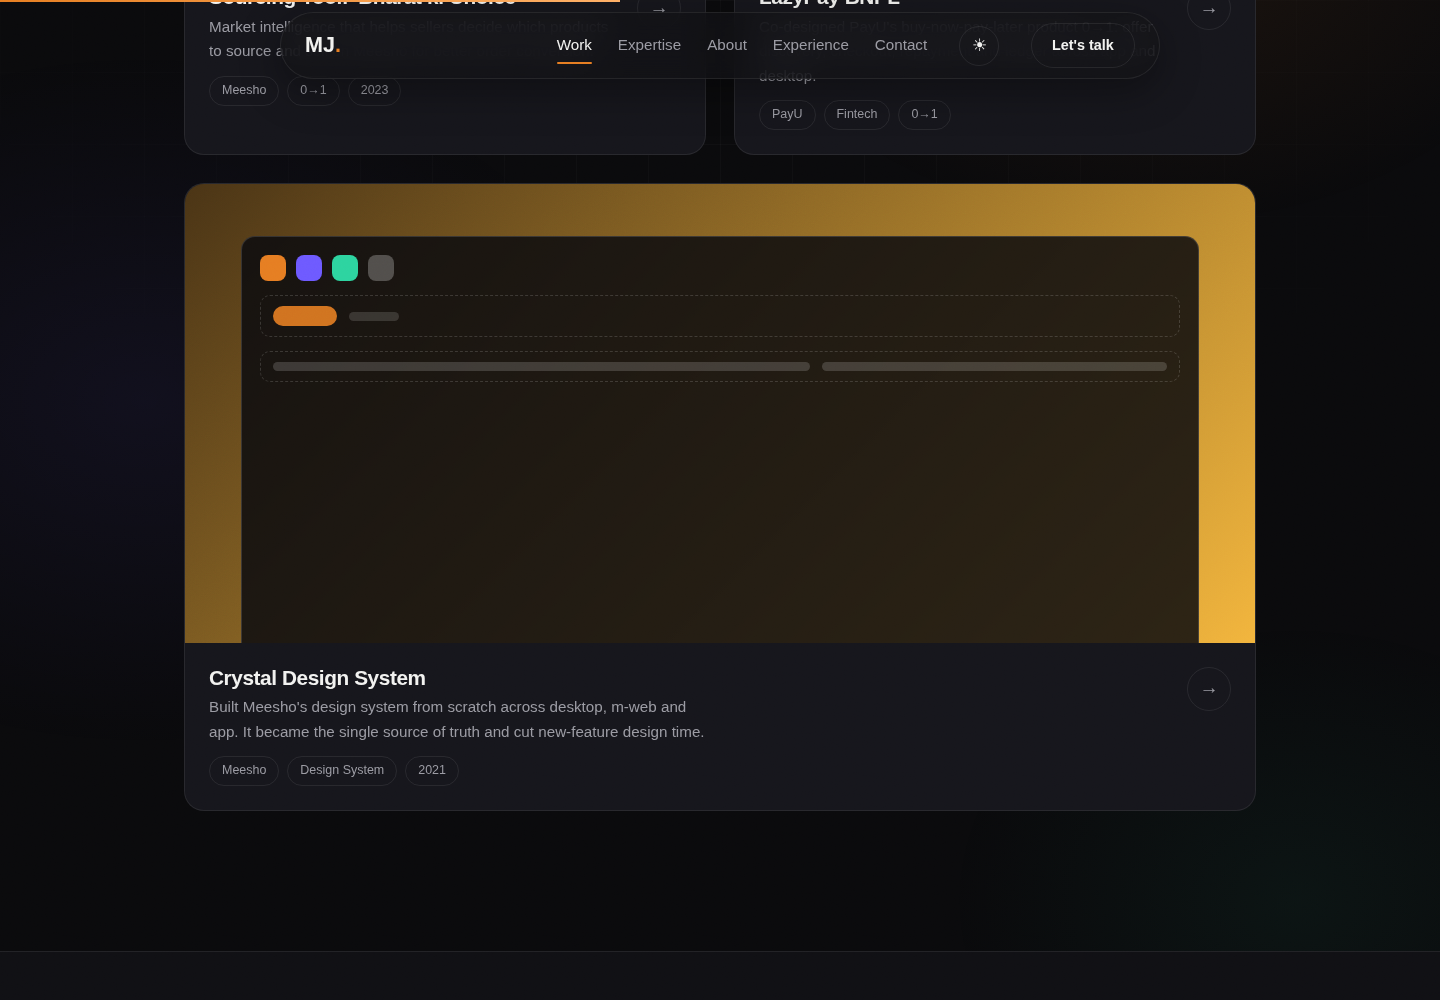
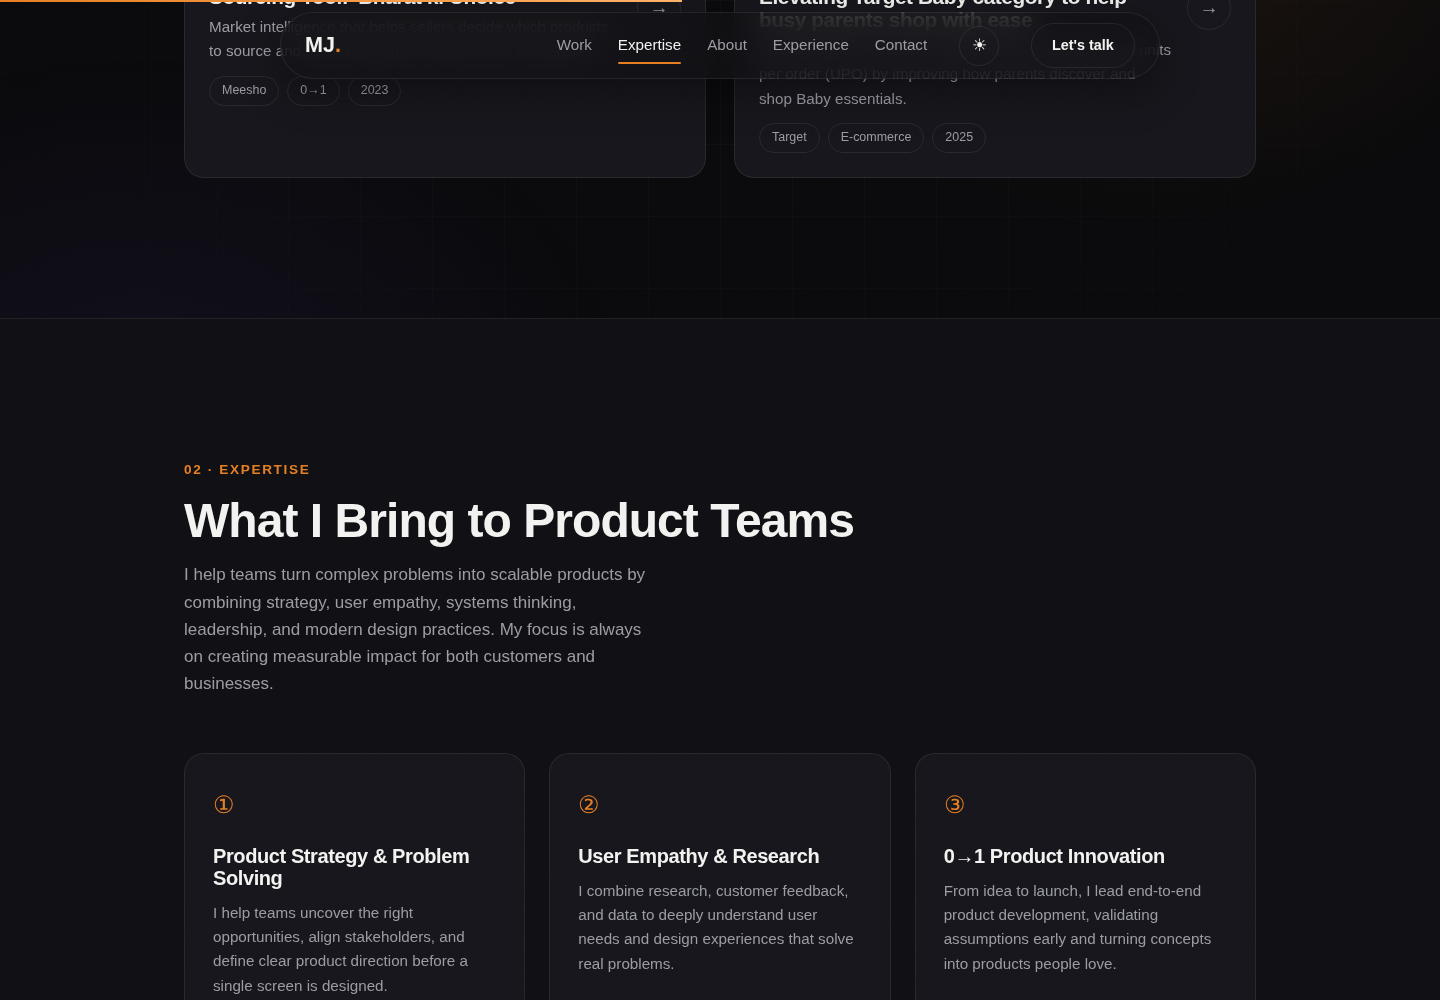
Remove Crystal Design System card; replace LazyPay with Target Baby category case study
https://claude.ai/code/session_01CrvKz3eqMyGA3YrXnTVdKT

diff --git a/maneesh-portfolio-standalone.html b/maneesh-portfolio-standalone.html
@@ -327,6 +327,7 @@ img { max-width: 100%; display: block; }
 .thumb-d { background: linear-gradient(135deg, #4a3415, #f2b53d); }
 .thumb-e { background: linear-gradient(135deg, #4a2050, #e85aa0); }
 .thumb-f { background: linear-gradient(135deg, #b98875, #161031 70%); }
+.thumb-g { background: linear-gradient(135deg, #451418, #1a1a1c 65%); }
 
 /* Two side-by-side phones in the featured Video Reviews card */
 .mock-phones-duo {
@@ -917,9 +918,9 @@ html[data-theme="light"] .nav-toggle span { background: var(--text); }
             <ul class="work-tags"><li>Meesho</li><li>0→1</li><li>2023</li></ul>
           </a>
 
-          <!-- LazyPay BNPL -->
+          <!-- Elevating Target Baby Category -->
           <a href="#" class="work-card spotlight tilt reveal">
-            <div class="work-thumb thumb-e">
+            <div class="work-thumb thumb-g">
               <div class="mock-phone">
                 <i class="mock-notch"></i>
                 <span class="mock-heading"></span>
@@ -930,32 +931,13 @@ html[data-theme="light"] .nav-toggle span { background: var(--text); }
             </div>
             <div class="work-meta">
               <div>
-                <h3>LazyPay BNPL</h3>
-                <p>Co-designed PayU's buy-now-pay-later product 0→1: offer discovery, checkout, repayment and ledger across app and desktop.</p>
+                <h3>Elevating Target Baby category to help busy parents shop with ease</h3>
+                <p>Business goal: increase average order value (AOV) and units per order (UPO) by improving how parents discover and shop Baby essentials.</p>
               </div>
               <span class="work-arrow" aria-hidden="true">→</span>
             </div>
-            <ul class="work-tags"><li>PayU</li><li>Fintech</li><li>0→1</li></ul>
+            <ul class="work-tags"><li>Target</li><li>E-commerce</li><li>2025</li></ul>
           </a>
-          <!-- Crystal Design System -->
-          <a href="#" class="work-card work-featured spotlight tilt reveal">
-            <div class="work-thumb thumb-d">
-              <div class="mock-system">
-                <div class="mock-swatches"><i></i><i></i><i></i><i></i></div>
-                <div class="mock-comp"><span class="mock-btn"></span><span class="mock-pill"></span></div>
-                <div class="mock-comp"><span class="mock-line"></span><span class="mock-line short"></span></div>
-              </div>
-            </div>
-            <div class="work-meta">
-              <div>
-                <h3>Crystal Design System</h3>
-                <p>Built Meesho's design system from scratch across desktop, m-web and app. It became the single source of truth and cut new-feature design time.</p>
-              </div>
-              <span class="work-arrow" aria-hidden="true">→</span>
-            </div>
-            <ul class="work-tags"><li>Meesho</li><li>Design System</li><li>2021</li></ul>
-          </a>
-
         </div>
       </div>
     </section>

diff --git a/index.html b/index.html
@@ -180,9 +180,9 @@
             <ul class="work-tags"><li>Meesho</li><li>0→1</li><li>2023</li></ul>
           </a>
 
-          <!-- LazyPay BNPL -->
+          <!-- Elevating Target Baby Category -->
           <a href="#" class="work-card spotlight tilt reveal">
-            <div class="work-thumb thumb-e">
+            <div class="work-thumb thumb-g">
               <div class="mock-phone">
                 <i class="mock-notch"></i>
                 <span class="mock-heading"></span>
@@ -193,32 +193,13 @@
             </div>
             <div class="work-meta">
               <div>
-                <h3>LazyPay BNPL</h3>
-                <p>Co-designed PayU's buy-now-pay-later product 0→1: offer discovery, checkout, repayment and ledger across app and desktop.</p>
+                <h3>Elevating Target Baby category to help busy parents shop with ease</h3>
+                <p>Business goal: increase average order value (AOV) and units per order (UPO) by improving how parents discover and shop Baby essentials.</p>
               </div>
               <span class="work-arrow" aria-hidden="true">→</span>
             </div>
-            <ul class="work-tags"><li>PayU</li><li>Fintech</li><li>0→1</li></ul>
+            <ul class="work-tags"><li>Target</li><li>E-commerce</li><li>2025</li></ul>
           </a>
-          <!-- Crystal Design System -->
-          <a href="#" class="work-card work-featured spotlight tilt reveal">
-            <div class="work-thumb thumb-d">
-              <div class="mock-system">
-                <div class="mock-swatches"><i></i><i></i><i></i><i></i></div>
-                <div class="mock-comp"><span class="mock-btn"></span><span class="mock-pill"></span></div>
-                <div class="mock-comp"><span class="mock-line"></span><span class="mock-line short"></span></div>
-              </div>
-            </div>
-            <div class="work-meta">
-              <div>
-                <h3>Crystal Design System</h3>
-                <p>Built Meesho's design system from scratch across desktop, m-web and app. It became the single source of truth and cut new-feature design time.</p>
-              </div>
-              <span class="work-arrow" aria-hidden="true">→</span>
-            </div>
-            <ul class="work-tags"><li>Meesho</li><li>Design System</li><li>2021</li></ul>
-          </a>
-
         </div>
       </div>
     </section>

diff --git a/style.css b/style.css
@@ -311,6 +311,7 @@ img { max-width: 100%; display: block; }
 .thumb-d { background: linear-gradient(135deg, #4a3415, #f2b53d); }
 .thumb-e { background: linear-gradient(135deg, #4a2050, #e85aa0); }
 .thumb-f { background: linear-gradient(135deg, #b98875, #161031 70%); }
+.thumb-g { background: linear-gradient(135deg, #451418, #1a1a1c 65%); }
 
 /* Two side-by-side phones in the featured Video Reviews card */
 .mock-phones-duo {
